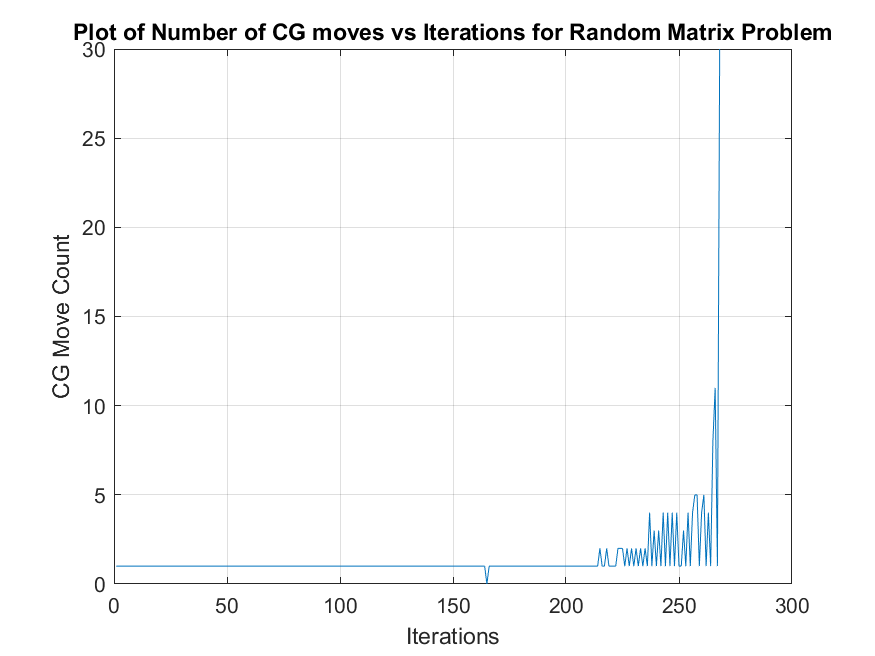
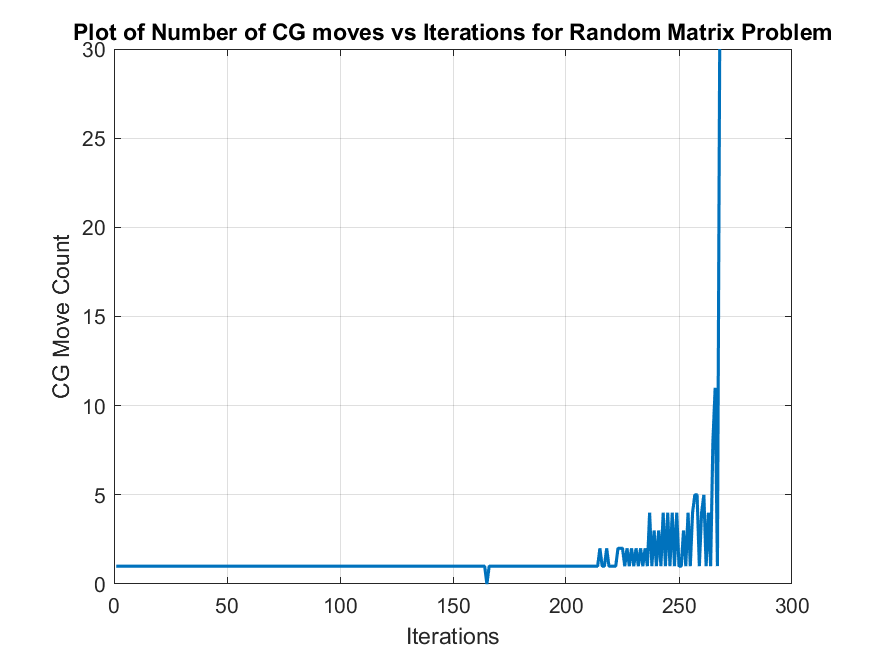
Added plots for higher number of iterations as well

Changed region(s): [[0.1234, 0.0915, 0.8331, 0.8841]]

diff --git a/test.m b/test.m
@@ -41,11 +41,11 @@ tol_ista = (func_eval_ista - Fstar)/abs(Fstar);
 
 % Plotting the tolerance for each of ISTA, FISTA and iiCG
 figure;
-plot(tol_ista, 'r');
+plot(tol_ista, 'r', 'LineWidth', 1.5);
 hold on;
-plot(tol_fista, 'g');
+plot(tol_fista, 'k', 'LineWidth', 1.5);
 hold on;
-plot(tol_iiCG, 'b');
+plot(tol_iiCG, 'b', 'LineWidth', 1.5);
 legend('ISTA', 'FISTA', 'iiCG');
 grid on;
 xlabel('Number of Matrix-Vector Products', 'Interpreter','latex', 'FontSize', 13)
@@ -56,11 +56,11 @@ print('Plots/tolvsMV_rand','-dpng');
 
 % Plotting with logarithmic x axis
 figure;
-semilogy(tol_ista, 'r');
+semilogy(tol_ista, 'r', 'LineWidth', 1.5);
 hold on;
-semilogy(tol_fista, 'g');
+semilogy(tol_fista, 'k', 'LineWidth', 1.5);
 hold on;
-semilogy(tol_iiCG, 'b');
+semilogy(tol_iiCG, 'b', 'LineWidth', 1.5);
 legend('ISTA', 'FISTA', 'iiCG');
 grid on;
 xlabel('Number of Matrix-Vector Products', 'Interpreter','latex', 'FontSize', 13)
@@ -71,13 +71,64 @@ print('Plots/tolvsMV_log_rand','-dpng');
 
 % Plotting CG Move Count for iiCG
 figure;
-plot(out2.CGmvcount);
+plot(out2.CGmvcount, 'LineWidth', 1.5);
 grid on;
 xlabel('Iterations')
 ylabel('CG Move Count')
 title('Plot of Number of CG moves vs Iterations for Random Matrix Problem')
 % savefig('Plots/CGvsiter_rand.fig');
 print('Plots/CG_rand','-dpng');
+
+%%%%%%%%%%%%%%%%%%%%%%%%%%%%%%
+%%%%%%%%%%%%%%%%%%%%%%%%%%%%%%
+
+% Running FISTA
+tau = tau(1);
+max_iter = 1500;
+[x_fista,func_eval_fista,~,~,~]  =  FISTA(A,b,tau,Gamma,max_iter,'quad_l1');
+
+% Running ISTA
+tau = tau(1);
+max_iter = 1500;
+[x_ista,func_eval_ista,~,~]  =  ISTA_final(A,b,tau,Gamma,max_iter,'quad_l1');
+
+% Finding the lowest function value among the 3 methods.
+Fstar = min([min(fvals_iicg), min(func_eval_ista), min(func_eval_fista)]);
+
+% Calculating tolerances
+tol_iiCG = (fvals_iicg - Fstar)/abs(Fstar);
+tol_fista = (func_eval_fista - Fstar)/abs(Fstar);
+tol_ista = (func_eval_ista - Fstar)/abs(Fstar);
+
+% Plotting the tolerance for each of ISTA, FISTA and iiCG
+figure;
+plot(tol_ista, 'r', 'LineWidth', 1.5);
+hold on;
+plot(tol_fista, 'k', 'LineWidth', 1.5);
+hold on;
+plot(tol_iiCG, 'b', 'LineWidth', 1.5);
+legend('ISTA', 'FISTA', 'iiCG');
+grid on;
+xlabel('Number of Matrix-Vector Products', 'Interpreter','latex', 'FontSize', 13)
+ylabel('Tolerance ($\frac{F(x^t)-F^*}{|F^*|}$)', 'Interpreter','latex', 'FontSize', 13)
+title('Plot of Tolerance vs Matrix-Vector Products for Random Matrix Problem')
+% savefig('Plots/tolvsMV_rand.fig');
+print('Plots/tolvsMV_randlll','-dpng');
+
+% Plotting with logarithmic x axis
+figure;
+semilogy(tol_ista, 'r', 'LineWidth', 1.5);
+hold on;
+semilogy(tol_fista, 'k', 'LineWidth', 1.5);
+hold on;
+semilogy(tol_iiCG, 'b', 'LineWidth', 1.5);
+legend('ISTA', 'FISTA', 'iiCG');
+grid on;
+xlabel('Number of Matrix-Vector Products', 'Interpreter','latex', 'FontSize', 13)
+ylabel('Tolerance ($\frac{F(x^t)-F^*}{|F^*|}$)', 'Interpreter','latex', 'FontSize', 13)
+title('Plot of Tolerance vs Matrix-Vector Products for Random Matrix Problem')
+% savefig('Plots/tolvsMV_rand_logy.fig');
+print('Plots/tolvsMV_log_randlll','-dpng');
 
 
 %% Commented out code

diff --git a/spectra_testing.m b/spectra_testing.m
@@ -40,11 +40,11 @@ tol_ista = (func_eval_ista - Fstar)/abs(Fstar);
 
 % Plotting the tolerance for each of ISTA, FISTA and iiCG
 figure;
-plot(tol_ista, 'r');
+plot(tol_ista, 'r', 'LineWidth', 1.5);
 hold on;
-plot(tol_fista, 'g');
+plot(tol_fista, 'k', 'LineWidth', 1.5);
 hold on;
-plot(tol_iiCG, 'b');
+plot(tol_iiCG, 'b', 'LineWidth', 1.5);
 legend('ISTA', 'FISTA', 'iiCG');
 grid on;
 xlabel('Number of Matrix-Vector Products', 'Interpreter','latex', 'FontSize', 13)
@@ -56,11 +56,11 @@ print('Plots/tolvsMV','-dpng');
 
 % Plotting with logarithmic x axis
 figure;
-semilogy(tol_ista, 'r');
+semilogy(tol_ista, 'r', 'LineWidth', 1.5);
 hold on;
-semilogy(tol_fista, 'g');
+semilogy(tol_fista, 'k', 'LineWidth', 1.5);
 hold on;
-semilogy(tol_iiCG, 'b');
+semilogy(tol_iiCG, 'b', 'LineWidth', 1.5);
 legend('ISTA', 'FISTA', 'iiCG');
 grid on;
 xlabel('Number of Matrix-Vector Products', 'Interpreter','latex', 'FontSize', 13)
@@ -72,13 +72,65 @@ print('Plots/tolvsMV_log','-dpng');
 
 % Plotting CG Move Count for iiCG
 figure;
-plot(out2.CGmvcount);
+plot(out2.CGmvcount, 'LineWidth', 1.5);
 grid on;
 xlabel('Iterations')
 ylabel('CG Move Count')
 title('Plot of Number of CG moves vs Iterations for Spectra Problem')
 % savefig('Plots/CGvsiter.fig');
 print('Plots/CG','-dpng');
+
+%%%%%%%%%%%%%%%%%%%%%%%%%%%%%%%%%%%%%%%%%%%%%%%%%%
+%%%%%%%%%%%%%%%%%%%%%%%%%%%%%%%%%%%%%%%%%%%%%%%%%%
+
+% Running FISTA
+tau = tau(1);
+max_iter = 800;
+[x_fista,func_eval_fista,~,~,~]  =  FISTA(A,b,tau,Gamma,max_iter,'quad_l1');
+
+% Running ISTA
+tau = tau(1);
+max_iter = 800;
+[x_ista,func_eval_ista,~,~]  =  ISTA_final(A,b,tau,Gamma,max_iter,'quad_l1');
+
+% Finding the lowest function value among the 3 methods.
+Fstar = min([min(fvals_iicg), min(func_eval_ista), min(func_eval_fista)]);
+
+% Calculating tolerances
+tol_iiCG = (fvals_iicg - Fstar)/abs(Fstar);
+tol_fista = (func_eval_fista - Fstar)/abs(Fstar);
+tol_ista = (func_eval_ista - Fstar)/abs(Fstar);
+
+% Plotting the tolerance for each of ISTA, FISTA and iiCG
+figure;
+plot(tol_ista, 'r', 'LineWidth', 1.5);
+hold on;
+plot(tol_fista, 'k', 'LineWidth', 1.5);
+hold on;
+plot(tol_iiCG, 'b', 'LineWidth', 1.5);
+legend('ISTA', 'FISTA', 'iiCG');
+grid on;
+xlabel('Number of Matrix-Vector Products', 'Interpreter','latex', 'FontSize', 13)
+ylabel('Tolerance ($\frac{F(x^t)-F^*}{|F^*|}$)', 'Interpreter','latex', 'FontSize', 13)
+title('Plot of Tolerance vs Matrix-Vector Products for Spectra Problem')
+% savefig('Plots/tolvsMV.fig');
+print('Plots/tolvsMVlll','-dpng');
+
+
+% Plotting with logarithmic x axis
+figure;
+semilogy(tol_ista, 'r', 'LineWidth', 1.5);
+hold on;
+semilogy(tol_fista, 'k', 'LineWidth', 1.5);
+hold on;
+semilogy(tol_iiCG, 'b', 'LineWidth', 1.5);
+legend('ISTA', 'FISTA', 'iiCG');
+grid on;
+xlabel('Number of Matrix-Vector Products', 'Interpreter','latex', 'FontSize', 13)
+ylabel('Tolerance ($\frac{F(x^t)-F^*}{|F^*|}$)', 'Interpreter','latex', 'FontSize', 13)
+title('Plot of Tolerance vs Matrix-Vector Products for Spectra Problem')
+% savefig('Plots/tolvsMV_logy.fig');
+print('Plots/tolvsMV_loglll','-dpng');
 
 
 %% Commented out code
